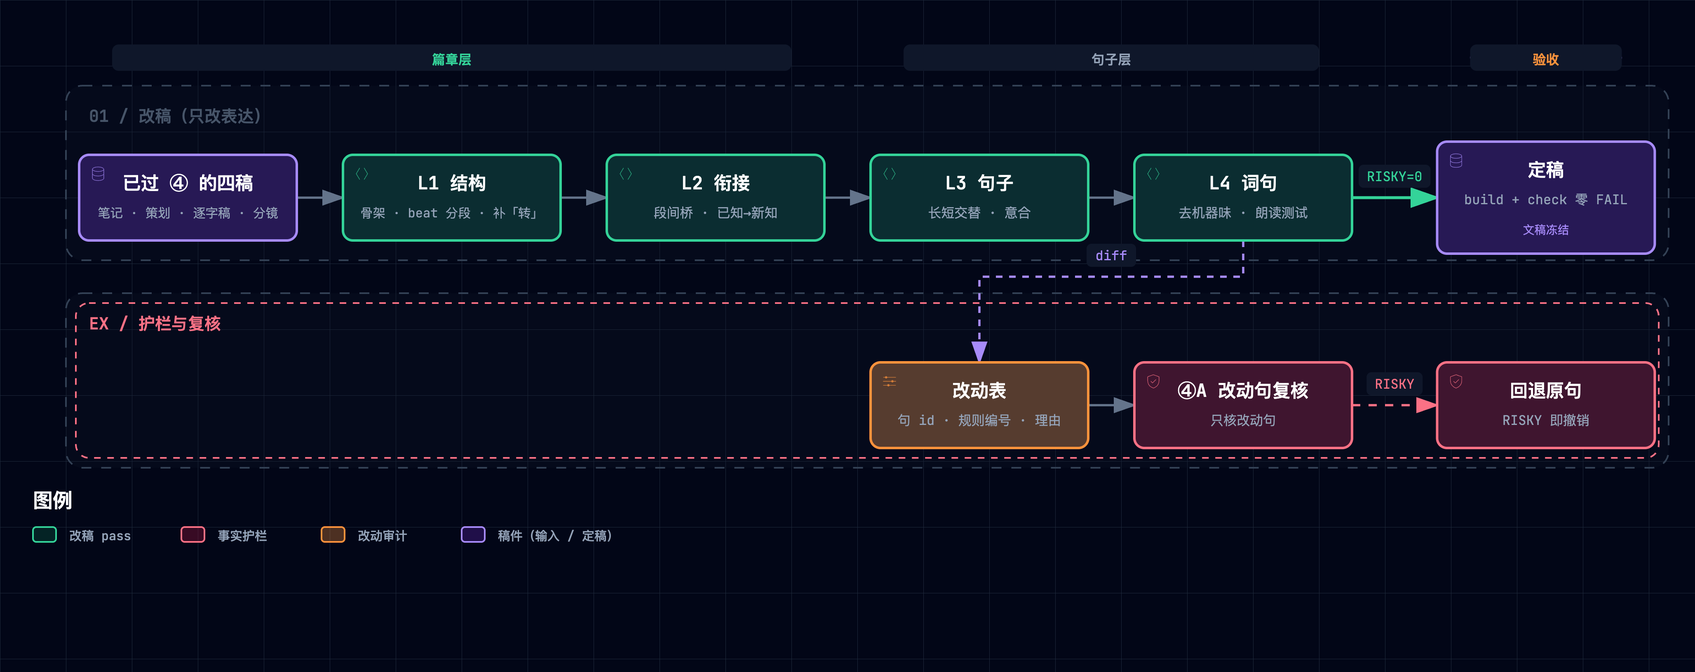
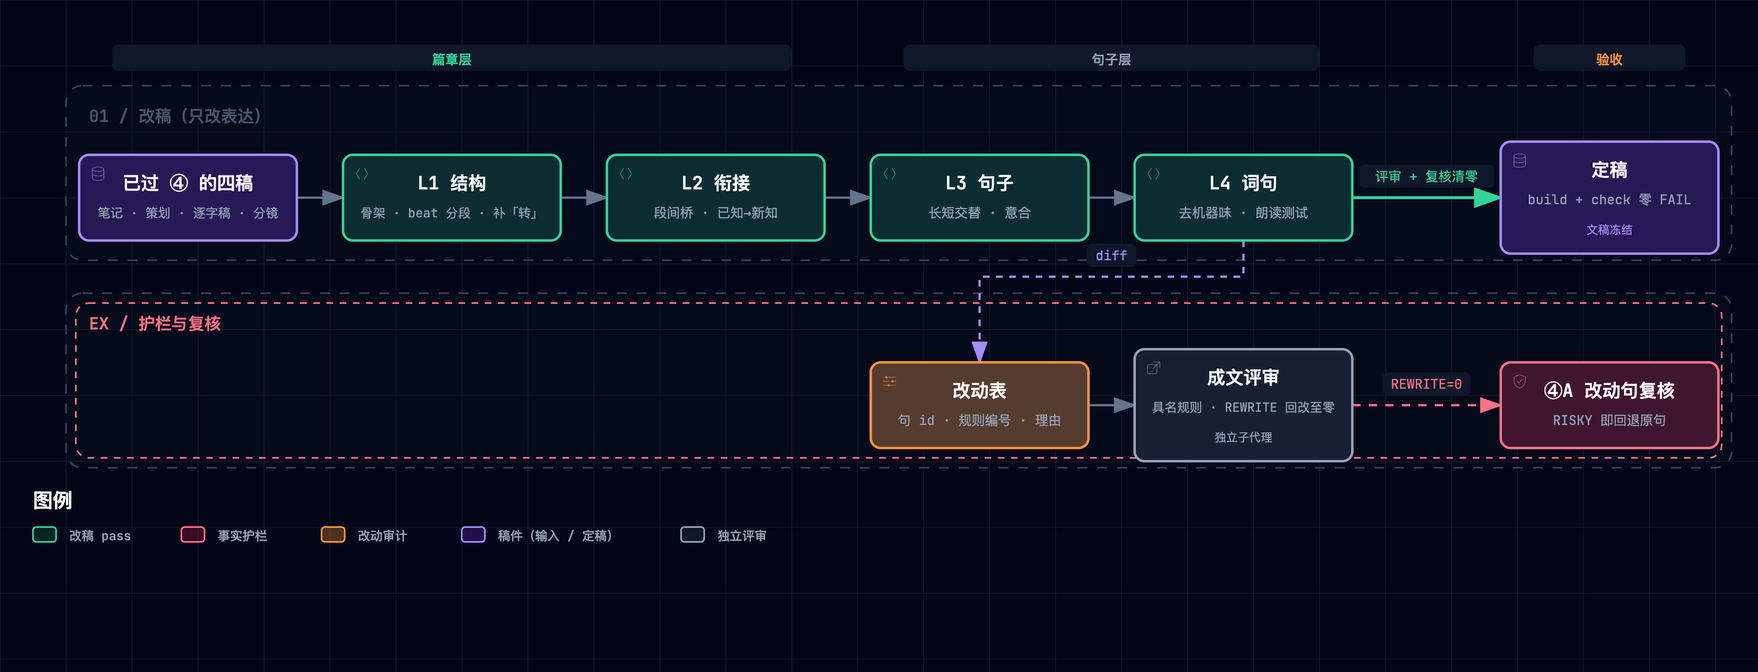
fix(rsi): ⑤ 通过门补「成文评审」定义并与 ④ 同口径（RSI-011 评审回归）;
- 05 规格第九节新增第 3 步「成文评审」：改稿者不自评，由独立子代理（只给规格 + 改后稿件 + 改动表）
  按第三至第八节具名规则判 REWRITE，给不出规则编号的意见不算，回改至 REWRITE=0；原 3–5 步顺移为 4–6
- 改动句复核与 ④ 同口径：RISKY 与未处理 REWRITE 均须为零；RISKY 回退句不再送评审（事实优先）
- 通过门改为「成文评审 REWRITE=0 且改动句复核 RISKY=0、REWRITE=0」，stages.toml / SKILL.md /
  README / CHANGELOG / evals 逐字同步（test_router_gates_match_stages 执法）
- prose-refinement--passes 图补「成文评审」节点（archify showcase 9/9、0 错 0 警，边路由无重叠无尖刺），
  重导 dark/light PNG，mmd 图源与研究文档 alt 文本同步
- 台账 RSI-011 追加评审回归与教训：prompt 门里每个判定量都须能在规格中找到产出步骤与判据

🤖 Generated with [Claude Code](https://claude.com/claude-code), [CodeX](https://openai.com), [Gemini](https://github.com/apps/gemini-code-assist)

diff --git a/docs/assets/architecture/prose-refinement--passes.html b/docs/assets/architecture/prose-refinement--passes.html
@@ -4,7 +4,7 @@
   <meta charset="UTF-8">
   <meta name="viewport" content="width=device-width, initial-scale=1.0">
   <meta name="generator" content="archify 2.17.0-dev.1">
-  <title>Stage ⑤ 成文优化 · 四层 pass 与改动句复核</title>
+  <title>Stage ⑤ 成文优化 · 四层 pass 与评审复核</title>
   <script>
     // Resolve the theme before first paint so light-preference users don't
     // see a dark flash. The toolbar script below re-applies with UI state.
@@ -5081,11 +5081,11 @@ OTHER DEALINGS IN THE FONT SOFTWARE.
            data-preset-badge-blueprint="蓝图 / 修订 01"
            data-preset-badge-editorial="编辑风格 / 现场笔记">
         <div class="pulse-dot"></div>
-        <h1>Stage ⑤ 成文优化 · 四层 pass 与改动句复核</h1>
+        <h1>Stage ⑤ 成文优化 · 四层 pass 与评审复核</h1>
       </div>
     </div>
 
-    <script id="archify-guided-views-data" type="application/json">[{"id":"top-down","label":"自顶向下四层","focus":["in","l1","l2","l3","l4","gate"],"note":"先改结构，再补衔接，然后改句子，最后才改词句；上层问题不许用下层手段掩盖。"},{"id":"guard","label":"护栏与复核","focus":["l4","audit","recheck","rollback","gate"],"note":"改动表定位改动句，只对改动句重跑 ④A；RISKY 即回退原句。"}]</script>
+    <script id="archify-guided-views-data" type="application/json">[{"id":"top-down","label":"自顶向下四层","focus":["in","l1","l2","l3","l4","gate"],"note":"先改结构，再补衔接，然后改句子，最后才改词句；上层问题不许用下层手段掩盖。"},{"id":"guard","label":"评审与复核","focus":["l4","audit","review","recheck","gate"],"note":"改动表交独立子代理按具名规则成文评审，REWRITE 回改至清零；再只对改动句重跑 ④A，RISKY 即回退原句。"}]</script>
 
     <script id="archify-i18n-data" type="application/json">{"locale":"zh-CN","messages":{"viewer.kind.frontend":"前端","viewer.kind.backend":"后端","viewer.kind.database":"数据库","viewer.kind.cloud":"云服务","viewer.kind.security":"安全","viewer.kind.messagebus":"消息总线","viewer.kind.external":"外部系统","viewer.kind.neutral":"中性","viewer.kind.node":"节点","viewer.kind.start":"开始","viewer.kind.active":"活动","viewer.kind.waiting":"等待","viewer.kind.decision":"决策","viewer.kind.success":"成功","viewer.kind.failure":"失败","viewer.toolbar.actions":"图表操作","viewer.theme.toggle.title":"切换主题（T）","viewer.theme.toggle":"切换颜色主题","viewer.theme.dark":"深色","viewer.theme.light":"浅色","viewer.preset.choose.title":"选择视觉风格（S 循环切换）","viewer.preset.choose":"选择视觉风格","viewer.preset.style":"风格","viewer.preset.menu":"视觉风格","viewer.preset.identity":"视觉表达","viewer.preset.cycles":"S 循环切换","viewer.preset.classic":"经典","viewer.preset.classic.short":"经典","viewer.preset.classic.hint":"稳定的技术默认风格","viewer.preset.flow":"信号流","viewer.preset.flow.short":"流动","viewer.preset.flow.hint":"突出动态流向","viewer.preset.blueprint":"蓝图","viewer.preset.blueprint.hint":"工程评审","viewer.preset.editorial":"编辑风格","viewer.preset.editorial.hint":"适合发布与上线说明","viewer.preset.badge.signalFlow":"信号流","viewer.preset.badge.blueprint":"蓝图 / 修订 01","viewer.preset.badge.editorial":"编辑风格 / 现场笔记","viewer.preset.badge.editorialPlate":"ARCHIFY / 图版 04","viewer.preset.current":"当前视觉风格：{style}。选择视觉风格","viewer.motion.live":"动态","viewer.motion.still":"静态","viewer.motion.pause":"暂停动效","viewer.motion.resume":"恢复动效","viewer.motion.reduced":"已根据减少动态效果偏好暂停动效","viewer.motion.hidden":"页面不可见时已暂停动效","viewer.motion.yielding":"暂停动效；当前让位于{owner}","viewer.motion.yielding.title":"动态预览已启用 · 正在让位于{owner}","viewer.owner.story":"引导故事","viewer.owner.chapter":"当前章节","viewer.owner.chapterPreview":"章节差异预览","viewer.owner.handoff":"章节交接","viewer.owner.route":"路径探测","viewer.owner.lens":"语义透镜","viewer.owner.relationship":"关系预览","viewer.owner.intent":"意图追踪","viewer.owner.focus":"语义聚焦","viewer.owner.legend":"图例预览","viewer.owner.reader":"读者交互","viewer.present.enter":"进入演示模式","viewer.present.enter.title":"演示模式（F）","viewer.present.exit":"退出演示模式","viewer.present.exit.title":"退出演示模式（F 或 Escape）","viewer.present.present":"演示","viewer.present.exit.label":"退出","viewer.export.button":"导出","viewer.export.button.title":"导出图表（E）","viewer.export.diagram":"导出图表","viewer.export.menu":"导出","viewer.export.subtitle":"便携、整洁的输出","viewer.export.share":"分享","viewer.export.shareCard":"分享卡片","viewer.export.routeShareCard":"路径分享卡片","viewer.export.reachShareCard":"可达范围分享卡片","viewer.export.copyShareCard":"复制分享卡片","viewer.export.copyDiagram":"复制图表","viewer.export.clipboardPng":"复制 PNG 到剪贴板","viewer.export.raster":"位图","viewer.export.image":"图像","viewer.export.lossless":"无损图像","viewer.export.compact":"紧凑图像","viewer.export.modern":"现代图像格式","viewer.export.vectorMotion":"矢量与动效","viewer.export.vectorMotion.heading":"矢量与动效","viewer.export.editable":"可编辑矢量图","viewer.export.motion6s":"6 秒动效","viewer.export.unsupported":"当前浏览器不支持","viewer.export.clipboardUnsupported":"当前浏览器不支持写入图片剪贴板","viewer.export.clipboardUnsupported.period":"当前浏览器不支持写入图片剪贴板。","viewer.export.clipboardUnsupported.short":"此浏览器不支持写入图片剪贴板。","viewer.export.motionUnavailable":"当前浏览器无法录制动效","viewer.export.webmUnavailable":"当前浏览器不支持 WebM","viewer.export.failed":"导出失败：{message}","viewer.export.unknownVariant":"未知的分享卡片类型：{variant}","viewer.export.routeRequired":"请先追踪路径，再导出路径分享卡片","viewer.export.reachRequired":"请先追踪编写可达范围，再导出可达范围分享卡片","viewer.export.unknown":"未知错误","viewer.export.routeFailed":"路径分享卡片导出失败：{message}","viewer.export.reachFailed":"可达范围分享卡片导出失败：{message}","viewer.export.copyFailed":"复制失败：{message}","viewer.export.copiedPng":"已将 PNG 复制到剪贴板","viewer.export.copiedShare":"已复制分享卡片","viewer.export.downloadedShare":"已下载分享卡片","viewer.export.downloadedRoute":"已下载路径分享卡片","viewer.export.downloadedReach":"已下载可达范围分享卡片","viewer.export.downloadedWebm":"已下载 WebM","viewer.export.recording":"正在录制 6 秒动效…","viewer.export.card.routeSummary.one":"路径：{source} → {target} · {count} 个有向跳转","viewer.export.card.routeSummary.other":"路径：{source} → {target} · {count} 个有向跳转","viewer.export.card.reachSummary":"从{origin}开始的编写{direction} · {nodes} · {links} · 最深 {hops}","viewer.export.card.node.one":"{count} 个节点","viewer.export.card.node.other":"{count} 个节点","viewer.export.card.link.one":"{count} 条连接","viewer.export.card.link.other":"{count} 条连接","viewer.export.card.hop.one":"{count} 跳","viewer.export.card.hop.other":"{count} 跳","viewer.export.card.routeBadge":"ARCHIFY · 路径 · {hops}","viewer.export.card.reachBadge":"ARCHIFY · {direction}可达范围","viewer.export.card.defaultBadge":"ARCHIFY · {preset} · {theme}","viewer.export.direction.upstream":"上游","viewer.export.direction.downstream":"下游","viewer.export.error.canvasUnavailable":"无法为{label}使用画布","viewer.export.error.contextUnavailable":"无法为{label}创建二维画布上下文","viewer.export.error.toBlobUnavailable":"{label}无法使用 canvas.toBlob","viewer.export.error.toBlobNull":"{label}的 canvas.toBlob 未返回数据","viewer.export.error.variantsCombined":"无法同时组合多种分享卡片类型","viewer.export.error.viewerState":"分享卡片导出无法移除临时 Viewer 状态","viewer.export.error.routeState":"路径卡片导出无法安全保留已解析路径","viewer.export.error.reachState":"可达范围卡片导出无法安全保留编写的可达范围","viewer.export.error.webmRequirements":"WebM 动效导出需要追踪动画及浏览器 MediaRecorder 支持","viewer.export.error.mediaRecorder":"MediaRecorder 录制失败","viewer.export.error.emptyWebm":"MediaRecorder 生成了空的 WebM","viewer.export.error.webmBackground":"无法为 WebM 导出加载 SVG 背景","viewer.guided.region":"图表引导视图","viewer.guided.previous":"上一个引导视图","viewer.guided.previous.title":"上一个引导视图（[）","viewer.guided.next":"下一个引导视图","viewer.guided.next.title":"下一个引导视图（]）","viewer.guided.views":"引导视图","viewer.guided.explore":"探索此系统","viewer.guided.intro":"沿精选路径逐步查看，而不改变源图表。","viewer.guided.trail":"故事轨迹","viewer.guided.beat":"节点","viewer.guided.nextBeat":"下一步","viewer.guided.play":"播放引导故事","viewer.guided.play.title":"播放引导故事（P）","viewer.guided.pause":"暂停引导故事","viewer.guided.pause.title":"暂停引导故事（P）","viewer.guided.replay":"重播引导故事","viewer.guided.replay.title":"重播引导故事（P）","viewer.guided.playStory":"播放故事","viewer.guided.pauseStory":"暂停","viewer.guided.replayStory":"重播故事","viewer.guided.motionUnavailable":"静态模式下无法播放故事","viewer.guided.enableMotion":"切换为动态模式以播放引导故事","viewer.guided.selectBeatLink":"选择故事节点以复制其精确链接","viewer.guided.copyMoment":"复制此刻","viewer.guided.momentCopied":"已复制时刻链接","viewer.guided.momentCopyFailed":"无法复制故事时刻链接","viewer.guided.copied":"已复制","viewer.guided.copyFailed":"复制失败","viewer.guided.showAll":"显示全部","viewer.guided.showAll.aria":"显示完整图表","viewer.guided.chapters":"故事章节","viewer.guided.storyTrail":"{label}的故事轨迹：{count} 个节点","viewer.guided.chapter.open":"打开第 {index}/{total} 章：{label}，{count} 个停靠点","viewer.guided.chapter.current":"当前第 {index}/{total} 章：{label}，{count} 个停靠点","viewer.guided.chapter.selectedNodes":"已选择 {count} 个节点","viewer.guided.chapter.stops":"{count} 个停靠点","viewer.guided.chapter.stop.one":"{count} 个停靠点","viewer.guided.chapter.stop.other":"{count} 个停靠点","viewer.guided.chapter.current.title":"{label} — 当前章节，{count} 个停靠点","viewer.guided.chapter.delta.expanded":"{stay} 个保留，{enter} 个进入，{leave} 个离开","viewer.guided.chapter.delta.aria":"打开第 {index}/{total} 章：{label}。章节聚焦差异：{delta}","viewer.guided.chapter.delta.title":"{label} — 章节聚焦 {delta}","viewer.guided.handoff":"{from} → {to} · 经由{label}","viewer.guided.share.chapter":"章节 {index} / {total}","viewer.guided.share.initial":"章节 01 / 01","viewer.guided.share.default":"引导章节","viewer.guided.state.ready":"就绪","viewer.guided.state.playing":"播放中","viewer.guided.state.settled":"已完成","viewer.guided.state.paused":"已暂停","viewer.guided.state.pinned":"已固定","viewer.guided.state.still":"静态","viewer.guided.share.step":"步骤 {index} / {total} · {label}","viewer.guided.share.staticMoment":"{step} · 静态时刻","viewer.guided.share.complete":"{count} 个步骤已完成 · {note}","viewer.guided.share.settled":"路径已稳定，可供阅读。","viewer.guided.share.staticPath":"{count} 个步骤 · 静态路径","viewer.guided.share.ready":"{count} 个步骤 · 就绪","viewer.guided.share.aria":"{state}，第 {index}/{total} 章：{label}。{beat}。{route}","viewer.guided.beat.start":"节点 {index} / {total} · {label} · 起点","viewer.guided.beat.forward":"节点 {index} / {total} · {from} → {to}","viewer.guided.beat.reverse":"节点 {index} / {total} · {from} → {to} · 反向编写连接","viewer.guided.beat.multiple":"节点 {index} / {total} · {from} ⇄ {to} · {count} 条编写连接","viewer.guided.beat.group":"节点 {index} / {total} · {from} · {to} · 分组 · 无直接连接","viewer.guided.beat.aria.prefix":"故事节点 {index}/{total}：{label}。","viewer.guided.beat.aria.start":"起点。","viewer.guided.beat.aria.forward":"从{from}经一条正向编写关系到达。","viewer.guided.beat.aria.reverse":"从{from}出发；编写关系实际由{to}指向{from}。","viewer.guided.beat.aria.multiple":"从{from}经 {count} 条编写关系到达；不使用任意动效。","viewer.guided.beat.aria.group":"与{from}分组展示，没有直接编写关系。","viewer.guided.caption.start":"起点","viewer.guided.caption.grouped":"分组过渡 · 无直接编写连接","viewer.guided.caption.more":" +另外 {count} 条","viewer.guided.caption.reverse":"反向编写关系","viewer.guided.caption.relationships":"{count} 条编写关系","viewer.guided.caption.relationship":"编写关系","viewer.guided.caption.direction":"编写方向：{from} → {to}","viewer.guided.caption.starting":"编写起点","viewer.guided.beatLink":"复制当前故事时刻链接：第 {index}/{total} 个节点：{label}","viewer.guided.noStory":"此图表没有编写引导故事。","viewer.guide.eyebrow":"图表指南","viewer.guide.close":"关闭图表指南","viewer.guide.inspecting":"正在检查已编译语义","viewer.guide.actions":"图表探索操作","viewer.guide.find":"查找任意节点","viewer.guide.find.hint":"搜索标签、职责、类型和稳定 ID。","viewer.guide.route":"追踪路径","viewer.guide.route.aria":"追踪有向路径","viewer.guide.route.hint":"查看两个语义节点如何按编写方向连接。","viewer.guide.map":"查看完整系统","viewer.guide.map.hint":"打开带实时视口和稳定节点的语义雷达。","viewer.guide.lens":"比较语义类型","viewer.guide.lens.hint":"统计角色、显示流量并比较直接编写的连接。","viewer.guide.story":"播放引导故事","viewer.guide.story.hint":"浏览已编写的章节和真实关系。","viewer.guide.present":"进入演示模式","viewer.guide.present.hint":"让实时图表占满视口，同时不改变导出。","viewer.guide.shortcuts":"其他键盘快捷键","viewer.guide.shortcut.export":"导出","viewer.guide.shortcut.theme":"主题","viewer.guide.shortcut.style":"风格","viewer.guide.shortcut.reset":"重置","viewer.guide.shortcut.zoomIn":"放大","viewer.guide.shortcut.zoomOut":"缩小","viewer.guide.shortcut.close":"关闭","viewer.guide.facts":"{nodes} · {relationships} · {views}","viewer.guide.fact.node.one":"{count} 个语义节点","viewer.guide.fact.node.other":"{count} 个语义节点","viewer.guide.fact.relationship.one":"{count} 条关系","viewer.guide.fact.relationship.other":"{count} 条关系","viewer.guide.fact.view.one":"{count} 个引导视图","viewer.guide.fact.view.other":"{count} 个引导视图","viewer.guide.story.available.one":"浏览 {count} 个已编写章节及其真实关系。","viewer.guide.story.available.other":"浏览 {count} 个已编写章节及其真实关系。","viewer.guide.story.unavailable":"此图表没有编写引导故事。","viewer.guide.open":"打开图表指南","viewer.guide.noStory":"此图表没有编写引导故事。","viewer.finder.title":"查找节点","viewer.finder.close":"关闭节点查找器","viewer.finder.placeholder":"搜索标签或 ID","viewer.finder.search":"搜索图表节点","viewer.finder.results":"图表节点","viewer.finder.empty":"没有匹配的节点","viewer.finder.result.focus":"聚焦{label}","viewer.finder.result.routeStart":"选择{label}作为路径起点","viewer.finder.result.routeTarget":"选择{label}作为路径终点，{links}","viewer.finder.status.empty":"没有匹配的节点","viewer.finder.status.count.one":"{count} 个匹配节点","viewer.finder.status.count.other":"{count} 个匹配节点","viewer.finder.noun.nodes":"个节点","viewer.finder.link.one":"{count} 条连接","viewer.finder.link.other":"{count} 条连接","viewer.finder.result.focus.one":"聚焦{label}，{count} 条相关连接","viewer.finder.result.focus.other":"聚焦{label}，{count} 条相关连接","viewer.finder.status.filtered":"{visible}/{available} {noun}","viewer.finder.status.all":"{available} {noun}","viewer.passport.eyebrow":"语义护照","viewer.passport.metadata":"节点元数据","viewer.passport.evidence":"已验证的源代码证据","viewer.passport.verified":"已验证来源","viewer.passport.verificationScope":"已按固定修订版本验证本地 Git 证据，未检查远程访问权限。","viewer.passport.reach":"编写可达范围","viewer.passport.reach.trace":"追踪编写的可达性","viewer.passport.upstream":"上游","viewer.passport.downstream":"下游","viewer.passport.upstream.trace":"追踪上游编写可达性","viewer.passport.downstream.trace":"追踪下游编写可达性","viewer.passport.close":"关闭语义护照","viewer.passport.copy":"复制链接","viewer.passport.copy.focus":"复制聚焦节点的链接","viewer.passport.relations":"关系","viewer.passport.relations.show":"显示关联关系","viewer.passport.relations.hide":"隐藏关联关系","viewer.passport.relations.list":"关联关系","viewer.passport.copyRelation":"复制关系","viewer.passport.copyNode":"复制节点","viewer.passport.copyPinned":"复制固定关系的链接","viewer.passport.copySource":"复制来源节点的链接","viewer.passport.copy.focused.success":"已复制聚焦节点链接","viewer.passport.copy.pinned.success":"已复制固定关系链接","viewer.passport.copy.focused.failed":"无法复制聚焦节点链接","viewer.passport.copy.pinned.failed":"无法复制固定关系链接","viewer.passport.relationship.none":"没有关联关系","viewer.passport.relationship.count.one":"{count} 条关系","viewer.passport.relationship.count.other":"{count} 条关系","viewer.passport.relationship.show.one":"显示 {count} 条关联关系","viewer.passport.relationship.show.other":"显示 {count} 条关联关系","viewer.passport.relationship.summary":"{out} 条出向 · {in} 条入向{loops}","viewer.passport.relationship.loops":" · {count} 条自环","viewer.passport.relationship.explorer":"直接关系浏览器","viewer.passport.relationship.help":"使用方向键浏览关系。按 Enter 或空格键固定详情；按 Escape 清除。","viewer.passport.relationship.loopsBack":"回环","viewer.passport.relationship.connectsTo":"连接到","viewer.passport.relationship.connectsFrom":"连接自","viewer.passport.relationship.pinned":"已固定关系 · {from} → {to} · {label}","viewer.passport.relationship.inspect":"检查第 {index}/{total} 条关系：{from} 到 {to}，{label}。按 Enter 查看详情。","viewer.passport.relationship.group.out":"出向","viewer.passport.relationship.group.in":"入向","viewer.passport.relationship.group.loop":"自环","viewer.passport.relationship.row":"{group}：{relationship}，{neighbor}","viewer.passport.relationship.direction.out":"出 →","viewer.passport.relationship.direction.in":"← 入","viewer.passport.relationship.direction.loop":"自环","viewer.passport.sourceCount.one":"{count} 个已验证来源引用","viewer.passport.sourceCount.other":"{count} 个已验证来源引用","viewer.passport.sourceMarker":"来源","viewer.passport.beacon.one":"{count} 个已验证来源；聚焦此节点以检查","viewer.passport.beacon.other":"{count} 个已验证来源；聚焦此节点以检查","viewer.passport.repository.open":"打开已验证的仓库修订版本 {revision}","viewer.passport.source.open":"打开修订版本 {revision} 中已验证的来源 {path}","viewer.passport.source.openLink":"打开 ↗","viewer.passport.reach.upstream.one":"追踪 {count} 个上游编写节点","viewer.passport.reach.upstream.other":"追踪 {count} 个上游编写节点","viewer.passport.reach.downstream.one":"追踪 {count} 个下游编写节点","viewer.passport.reach.downstream.other":"追踪 {count} 个下游编写节点","viewer.passport.reach.noUpstream":"没有上游编写节点","viewer.passport.reach.noDownstream":"没有下游编写节点","viewer.passport.reach.status":"{direction} · {nodes} 个节点 · {links} 条连接 · 最深 {hops} 跳","viewer.route.eyebrow":"路径探测","viewer.route.start":"选择起点节点","viewer.route.start.find":"查找起点","viewer.route.start.find.aria":"查找路径起点","viewer.route.copy":"复制链接","viewer.route.copy.aria":"复制已追踪路径的链接","viewer.route.clear":"清除","viewer.route.clear.aria":"清除路径探测","viewer.route.traced":"已追踪路径","viewer.route.pickTwo":"在图表中选择两个语义节点","viewer.route.pickOne":"在图表中选择一个语义节点","viewer.route.controls":"路径旅程控制","viewer.route.previous":"上一个路径位置","viewer.route.play":"播放路径旅程","viewer.route.pause":"暂停路径旅程","viewer.route.replay":"重播路径旅程","viewer.route.next":"下一个路径位置","viewer.route.journey":"旅程","viewer.route.pause.label":"暂停","viewer.route.replay.label":"重播","viewer.route.overview":"总览","viewer.route.overview.aria":"显示完整路径总览","viewer.route.instructions":"先选择来源，再选择目标；方向很重要。","viewer.route.destination":"选择从{label}出发的目标","viewer.route.destination.find":"查找目标","viewer.route.destination.find.aria":"查找可达的路径目标","viewer.route.differentDestination":"选择其他目标","viewer.route.distinct":"一条路径需要两个不同的语义节点。","viewer.route.unreachable":"没有通往{label}的有向路径","viewer.route.unreachable.detail":"从{source}无法到达{target}。请选择高亮的目标。","viewer.route.start.instructions":"选择来源。下一步只会显示有向可达的目标。","viewer.route.copy.success":"已复制路径链接","viewer.route.copy.failed":"无法复制路径链接","viewer.route.position":"路径位置 {index}/{total}：{label}","viewer.route.step":"第 {index}/{total} 步 · {phase} · {label}","viewer.route.motionRequired":"自动旅程需要动态模式","viewer.route.trigger.clear":"清除已追踪路径","viewer.route.overview.status":"{nodes} · {hops} · 最短编写路径","viewer.route.overview.node.one":"{count} 个节点","viewer.route.overview.node.other":"{count} 个节点","viewer.route.overview.hop.one":"{count} 个有向跳转","viewer.route.overview.hop.other":"{count} 个有向跳转","viewer.route.phase.playing":"播放中","viewer.route.phase.complete":"已完成","viewer.route.phase.inspecting":"检查中","viewer.route.destination.count.one":"有 {count} 个有向目标可用。请选择高亮节点。","viewer.route.destination.count.other":"有 {count} 个有向目标可用。请选择高亮节点。","viewer.route.noOutgoing":"此处没有可用的出向路径。请清除后选择其他来源。","viewer.route.result.title":"{source} 到 {target}","viewer.route.finder.source.title":"选择路径起点","viewer.route.finder.source.placeholder":"搜索路径来源","viewer.route.finder.source.empty":"没有匹配的路径来源","viewer.route.finder.source.results":"可作为路径起点的节点","viewer.route.finder.source.noun":"个路径来源","viewer.route.finder.source.badge":"起点","viewer.route.finder.target.title":"从{label}出发的目标","viewer.route.finder.target.placeholder":"搜索可达目标","viewer.route.finder.target.empty":"没有匹配的可达目标","viewer.route.finder.target.results":"可达路径目标","viewer.route.finder.target.noun":"个可达目标","viewer.route.hop.one":"{count} 跳","viewer.route.hop.other":"{count} 跳","viewer.lens.eyebrow":"语义透镜","viewer.lens.title":"比较系统角色","viewer.lens.close":"关闭语义透镜","viewer.lens.instruction":"最多选择两种语义类型。选择一种可显示其真实流量；选择两种只比较直接编写的关系。","viewer.lens.kinds":"语义类型","viewer.lens.choose":"选择一种类型以检查其节点和相连关系。","viewer.lens.copy":"复制语义透镜链接","viewer.lens.clear":"清除语义透镜","viewer.lens.open":"打开语义透镜","viewer.lens.openActive":"打开当前语义透镜","viewer.lens.legend":"语义图例","viewer.lens.legend.inspect.one":"检查{label}，{count} 个节点","viewer.lens.legend.inspect.other":"检查{label}，{count} 个节点","viewer.lens.kind.count.one":"{label}，{count} 个节点","viewer.lens.kind.count.other":"{label}，{count} 个节点","viewer.lens.compare.one":"{first} → {second}：{forward} · {second} → {first}：{reverse} · 共 {count} 条直接关系","viewer.lens.compare.other":"{first} → {second}：{forward} · {second} → {first}：{reverse} · 共 {count} 条直接关系","viewer.lens.single":"{nodes} · {relationships} · 已连接节点保持可见","viewer.lens.node.one":"{count} 个{label}节点","viewer.lens.node.other":"{count} 个{label}节点","viewer.lens.relationship.one":"{count} 条相连关系","viewer.lens.relationship.other":"{count} 条相连关系","viewer.radar.title":"语义雷达","viewer.radar.building":"正在构建总览","viewer.radar.openFull":"打开完整语义雷达","viewer.radar.open":"打开雷达","viewer.radar.close":"关闭语义雷达","viewer.radar.surface":"图表总览。点击节点进行聚焦，或使用方向键平移。","viewer.radar.click":"点击节点","viewer.radar.drag":"拖动平移","viewer.radar.space":"语义雷达需要更多地图可见空间。","viewer.radar.nodes":"语义图表雷达节点","viewer.radar.focus":"从语义雷达聚焦{label}","viewer.radar.status":"{count} 个节点 · {viewport}","viewer.radar.fullMap":"{count} 个节点 · 完整地图","viewer.radar.compacted":"已收紧雷达，避免遮挡语义护照或地图控件。","viewer.radar.cancelWaiting":"取消等待更多地图空间的语义雷达","viewer.radar.needsSpace":"语义雷达需要更多可见地图空间","viewer.radar.viewport.full":"完整地图","viewer.radar.viewport.width":"宽度 {percent}%","viewer.radar.viewport.scale":"视口 {percent}%","viewer.nav.controls":"图表视图控制","viewer.nav.route":"追踪有向路径","viewer.nav.route.title":"追踪路径（R）","viewer.nav.route.short":"路径","viewer.nav.radar":"打开语义雷达","viewer.nav.radar.title":"语义雷达（M）","viewer.nav.radar.short":"地图","viewer.nav.lens":"打开语义透镜","viewer.nav.lens.title":"语义透镜（L）","viewer.nav.lens.short":"透镜","viewer.nav.find":"查找节点","viewer.nav.find.title":"查找节点（/）","viewer.nav.guide":"打开图表指南","viewer.nav.guide.title":"图表指南（?）","viewer.nav.zoomOut":"缩小","viewer.nav.zoomOut.title":"缩小（-）","viewer.nav.reset":"重置图表视图","viewer.nav.reset.title":"重置视图（0）","viewer.nav.read":"阅读","viewer.nav.zoomIn":"放大","viewer.nav.zoomIn.title":"放大（+）","viewer.nav.camera":"{hint}。重置图表视图","viewer.nav.camera.title":"{semantic}{hint} · 重置视图（0）","viewer.nav.camera.semantic":"语义相机已启用 · ","viewer.nav.level.map":"概览","viewer.nav.level.read":"阅读","viewer.nav.level.full":"完整","viewer.nav.level.auto":"自动","viewer.nav.detail.map":"放大以显示关系标签和节点上下文","viewer.nav.detail.read":"再次放大以显示标签和注释","viewer.nav.detail.full":"完整图表详情","viewer.intent.summary":"{label}。{out} 条出向，{in} 条入向{loops}。共 {total} 条连接。按 Enter 查看详情。","viewer.intent.loops":"，{count} 条自环","viewer.common.copied":"已复制","viewer.common.copyFailed":"复制失败","viewer.common.copyLink":"复制链接","viewer.common.clear":"清除","viewer.common.close":"关闭"}}</script>
     <div class="guided-views no-print" id="guided-views" hidden aria-label="图表引导视图">
@@ -5130,8 +5130,8 @@ OTHER DEALINGS IN THE FONT SOFTWARE.
     <!-- Main Diagram -->
     <div class="diagram-container" data-detail-level="read"
          data-preset-badge-editorial-plate="ARCHIFY / 图版 04">
-      <svg viewBox="0 0 1028 408" role="img" lang="zh-CN" aria-labelledby="archify-diagram-title archify-diagram-description" data-preset="classic" data-quality-profile="showcase">
-        <title id="archify-diagram-title">Stage ⑤ 成文优化 · 四层 pass 与改动句复核</title>
+      <svg viewBox="0 0 1066 408" role="img" lang="zh-CN" aria-labelledby="archify-diagram-title archify-diagram-description" data-preset="classic" data-quality-profile="showcase">
+        <title id="archify-diagram-title">Stage ⑤ 成文优化 · 四层 pass 与评审复核</title>
         <desc id="archify-diagram-description">由 Archify 生成的工作流图。</desc>
         <!-- Definitions -->
         <defs>
@@ -5156,11 +5156,11 @@ OTHER DEALINGS IN THE FONT SOFTWARE.
         <rect width="100%" height="100%" fill="url(#grid)" />
 
         <!-- Swimlanes -->
-        <rect data-graph-role="structural-frame" data-composition-frame-kind="lane" data-composition-frame-id="lane-0" x="40" y="52" width="972" height="106" rx="10" class="c-lane" stroke-width="1"/>
+        <rect data-graph-role="structural-frame" data-composition-frame-kind="lane" data-composition-frame-id="lane-0" x="40" y="52" width="1010" height="106" rx="10" class="c-lane" stroke-width="1"/>
         <text x="54" y="74" class="t-dim" font-size="10" font-weight="600">01 / 改稿（只改表达）</text>
 
-        <rect data-graph-role="structural-frame" data-composition-frame-kind="lane" data-composition-frame-id="lane-1" x="40" y="178" width="972" height="106" rx="10" class="c-lane" stroke-width="1"/>
-        <rect data-graph-role="structural-frame" data-composition-frame-kind="exception-lane" data-composition-frame-id="lane-1-exception" x="46" y="184" width="960" height="94" rx="8" class="c-security-group" stroke-width="1"/>
+        <rect data-graph-role="structural-frame" data-composition-frame-kind="lane" data-composition-frame-id="lane-1" x="40" y="178" width="1010" height="106" rx="10" class="c-lane" stroke-width="1"/>
+        <rect data-graph-role="structural-frame" data-composition-frame-kind="exception-lane" data-composition-frame-id="lane-1-exception" x="46" y="184" width="998" height="94" rx="8" class="c-security-group" stroke-width="1"/>
         <text x="54" y="200" class="t-security" font-size="10" font-weight="600">EX / 护栏与复核</text>
 
         <!-- Phase headers -->
@@ -5170,22 +5170,22 @@ OTHER DEALINGS IN THE FONT SOFTWARE.
         <line x1="548" y1="35" x2="800" y2="35" class="a-default" stroke-width="1.1"/>
         <rect x="548" y="27" width="252" height="16" rx="4" class="c-mask"/>
         <text x="674" y="39" class="t-muted" font-size="8" font-weight="600" text-anchor="middle">句子层</text>
-        <line x1="891.6" y1="35" x2="983.6" y2="35" class="a-dashed" stroke-width="1.1"/>
-        <rect x="891.6" y="27" width="92" height="16" rx="4" class="c-mask"/>
-        <text x="937.6" y="39" class="t-messagebus" font-size="8" font-weight="600" text-anchor="middle">验收</text>
+        <line x1="930" y1="35" x2="1022" y2="35" class="a-dashed" stroke-width="1.1"/>
+        <rect x="930" y="27" width="92" height="16" rx="4" class="c-mask"/>
+        <text x="976" y="39" class="t-messagebus" font-size="8" font-weight="600" text-anchor="middle">验收</text>
 
         <!-- Workflow groups -->
 
 
         <!-- Edge paths -->
-        <path data-edge-from="audit" data-edge-to="recheck" data-edge-key="0" data-edge-id="audit-recheck" data-composition-points="660,246;688,246" d="M 660 246 L 688 246" class="a-default" stroke-width="1.4" marker-end="url(#arrowhead)"/>
+        <path data-edge-from="audit" data-edge-to="review" data-edge-key="0" data-edge-id="audit-review" data-composition-points="660,246;688,246" d="M 660 246 L 688 246" class="a-default" stroke-width="1.4" marker-end="url(#arrowhead)"/>
         <path data-edge-from="in" data-edge-to="l1" data-edge-key="1" data-edge-id="in-l1" data-composition-points="180,120;208,120" d="M 180 120 L 208 120" class="a-default" stroke-width="1.4" marker-end="url(#arrowhead)"/>
         <path data-edge-from="l1" data-edge-to="l2" data-edge-key="2" data-edge-id="l1-l2" data-composition-points="340,120;368,120" d="M 340 120 L 368 120" class="a-default" stroke-width="1.4" marker-end="url(#arrowhead)"/>
         <path data-edge-from="l2" data-edge-to="l3" data-edge-key="3" data-edge-id="l2-l3" data-composition-points="500,120;528,120" d="M 500 120 L 528 120" class="a-default" stroke-width="1.4" marker-end="url(#arrowhead)"/>
         <path data-edge-from="l3" data-edge-to="l4" data-edge-key="4" data-edge-id="l3-l4" data-composition-points="660,120;688,120" d="M 660 120 L 688 120" class="a-default" stroke-width="1.4" marker-end="url(#arrowhead)"/>
         <path data-edge-from="l4" data-edge-to="audit" data-edge-label="diff" data-edge-key="5" data-edge-id="l4-audit" data-composition-points="754,146;754,168;594,168;594,220" d="M 754 146 L 754 168 L 594 168 L 594 220" class="a-dashed" stroke-width="1.4" marker-end="url(#arrowhead-dashed)"/>
-        <path data-edge-from="l4" data-edge-to="gate" data-edge-label="RISKY=0" data-edge-key="6" data-edge-id="l4-gate" data-composition-points="820,120;871.6,120" d="M 820 120 L 871.6 120" class="a-emphasis" stroke-width="1.8" marker-end="url(#arrowhead-emphasis)"/>
-        <path data-edge-from="recheck" data-edge-to="rollback" data-edge-label="RISKY" data-edge-key="7" data-edge-id="recheck-rollback" data-composition-points="820,246;871.6,246" d="M 820 246 L 871.6 246" class="a-security" stroke-width="1.4" marker-end="url(#arrowhead-security)"/>
+        <path data-edge-from="l4" data-edge-to="gate" data-edge-label="评审 + 复核清零" data-edge-key="6" data-edge-id="l4-gate" data-composition-points="820,120;910,120" d="M 820 120 L 910 120" class="a-emphasis" stroke-width="1.8" marker-end="url(#arrowhead-emphasis)"/>
+        <path data-edge-from="review" data-edge-to="recheck" data-edge-label="REWRITE=0" data-edge-key="7" data-edge-id="review-recheck" data-composition-points="820,246;910,246" d="M 820 246 L 910 246" class="a-security" stroke-width="1.4" marker-end="url(#arrowhead-security)"/>
 
         <!-- Nodes -->
         <g id="node-in" data-node-id="in" data-node-label="已过 ④ 的四稿" tabindex="0" role="button" aria-label="聚焦已过 ④ 的四稿，笔记 · 策划 · 逐字稿 · 分镜, 改稿（只改表达） › 篇章层" aria-pressed="false" data-node-kind="database" data-node-sublabel="笔记 · 策划 · 逐字稿 · 分镜" data-node-context="改稿（只改表达） › 篇章层">
@@ -5246,15 +5246,15 @@ OTHER DEALINGS IN THE FONT SOFTWARE.
 
         <g id="node-gate" data-node-id="gate" data-node-label="定稿" tabindex="0" role="button" aria-label="聚焦定稿，build + check 零 FAIL, 改稿（只改表达） › 验收" aria-pressed="false" data-node-kind="database" data-node-sublabel="build + check 零 FAIL" data-node-tag="文稿冻结" data-node-context="改稿（只改表达） › 验收">
           <title>定稿 · build + check 零 FAIL · 改稿（只改表达） › 验收 · 文稿冻结</title>
-          <rect x="871.6" y="86" width="132" height="68" rx="6" class="c-mask"/>
-          <rect x="871.6" y="86" width="132" height="68" rx="6" class="c-database" stroke-width="1.5"/>
-          <g aria-hidden="true" data-semantic-sigil="database" class="semantic-sigil s-database" transform="translate(877.6 92) scale(0.6875)">
+          <rect x="910" y="86" width="132" height="68" rx="6" class="c-mask"/>
+          <rect x="910" y="86" width="132" height="68" rx="6" class="c-database" stroke-width="1.5"/>
+          <g aria-hidden="true" data-semantic-sigil="database" class="semantic-sigil s-database" transform="translate(916 92) scale(0.6875)">
             <ellipse cx="8" cy="4" rx="5" ry="2"/>
             <path d="M3 4v8c0 1.1 2.2 2 5 2s5-.9 5-2V4M3 8c0 1.1 2.2 2 5 2s5-.9 5-2"/>
           </g>
-          <text data-node-label="" data-detail-anchor="" x="937.6" y="107" class="t-primary" font-size="11" font-weight="600" text-anchor="middle">定稿</text>
-          <text data-detail="context" x="937.6" y="124" class="t-muted" font-size="8" text-anchor="middle">build + check 零 FAIL</text>
-        <text data-detail="fine" x="937.6" y="142" class="t-database" font-size="7" text-anchor="middle">文稿冻结</text>
+          <text data-node-label="" data-detail-anchor="" x="976" y="107" class="t-primary" font-size="11" font-weight="600" text-anchor="middle">定稿</text>
+          <text data-detail="context" x="976" y="124" class="t-muted" font-size="8" text-anchor="middle">build + check 零 FAIL</text>
+        <text data-detail="fine" x="976" y="142" class="t-database" font-size="7" text-anchor="middle">文稿冻结</text>
         </g>
 
         <g id="node-audit" data-node-id="audit" data-node-label="改动表" tabindex="0" role="button" aria-label="聚焦改动表，句 id · 规则编号 · 理由, 护栏与复核 › 句子层" aria-pressed="false" data-node-kind="messagebus" data-node-sublabel="句 id · 规则编号 · 理由" data-node-context="护栏与复核 › 句子层">
@@ -5271,28 +5271,29 @@ OTHER DEALINGS IN THE FONT SOFTWARE.
           <text data-detail="context" x="594" y="258" class="t-muted" font-size="8" text-anchor="middle">句 id · 规则编号 · 理由</text>
         </g>
 
-        <g id="node-recheck" data-node-id="recheck" data-node-label="④A 改动句复核" tabindex="0" role="button" aria-label="聚焦④A 改动句复核，只核改动句, 护栏与复核 › 句子层" aria-pressed="false" data-node-kind="security" data-node-sublabel="只核改动句" data-node-context="护栏与复核 › 句子层">
-          <title>④A 改动句复核 · 只核改动句 · 护栏与复核 › 句子层</title>
-          <rect x="688" y="220" width="132" height="52" rx="6" class="c-mask"/>
-          <rect x="688" y="220" width="132" height="52" rx="6" class="c-security" stroke-width="1.5"/>
-          <g aria-hidden="true" data-semantic-sigil="security" class="semantic-sigil s-security" transform="translate(694 226) scale(0.6875)">
-            <path d="M8 2.2 13 4v3.5c0 3.1-1.8 5.4-5 6.5-3.2-1.1-5-3.4-5-6.5V4Z"/>
-            <path d="m5.8 8 1.5 1.5 3-3"/>
+        <g id="node-review" data-node-id="review" data-node-label="成文评审" tabindex="0" role="button" aria-label="聚焦成文评审，具名规则 · REWRITE 回改至零, 护栏与复核 › 句子层" aria-pressed="false" data-node-kind="external" data-node-sublabel="具名规则 · REWRITE 回改至零" data-node-tag="独立子代理" data-node-context="护栏与复核 › 句子层">
+          <title>成文评审 · 具名规则 · REWRITE 回改至零 · 护栏与复核 › 句子层 · 独立子代理</title>
+          <rect x="688" y="212" width="132" height="68" rx="6" class="c-mask"/>
+          <rect x="688" y="212" width="132" height="68" rx="6" class="c-external" stroke-width="1.5"/>
+          <g aria-hidden="true" data-semantic-sigil="external" class="semantic-sigil s-external" transform="translate(694 218) scale(0.6875)">
+            <rect x="2.5" y="5" width="8.5" height="8" rx="1.5"/>
+            <path d="M8 2.5h5.5V8M13.5 2.5 7.5 8.5"/>
           </g>
-          <text data-node-label="" data-detail-anchor="" x="754" y="241" class="t-primary" font-size="11" font-weight="600" text-anchor="middle">④A 改动句复核</text>
-          <text data-detail="context" x="754" y="258" class="t-muted" font-size="8" text-anchor="middle">只核改动句</text>
+          <text data-node-label="" data-detail-anchor="" x="754" y="233" class="t-primary" font-size="11" font-weight="600" text-anchor="middle">成文评审</text>
+          <text data-detail="context" x="754" y="250" class="t-muted" font-size="7.6" text-anchor="middle">具名规则 · REWRITE 回改至零</text>
+        <text data-detail="fine" x="754" y="268" class="t-external" font-size="7" text-anchor="middle">独立子代理</text>
         </g>
 
-        <g id="node-rollback" data-node-id="rollback" data-node-label="回退原句" tabindex="0" role="button" aria-label="聚焦回退原句，RISKY 即撤销, 护栏与复核 › 验收" aria-pressed="false" data-node-kind="security" data-node-sublabel="RISKY 即撤销" data-node-context="护栏与复核 › 验收">
-          <title>回退原句 · RISKY 即撤销 · 护栏与复核 › 验收</title>
-          <rect x="871.6" y="220" width="132" height="52" rx="6" class="c-mask"/>
-          <rect x="871.6" y="220" width="132" height="52" rx="6" class="c-security" stroke-width="1.5"/>
-          <g aria-hidden="true" data-semantic-sigil="security" class="semantic-sigil s-security" transform="translate(877.6 226) scale(0.6875)">
+        <g id="node-recheck" data-node-id="recheck" data-node-label="④A 改动句复核" tabindex="0" role="button" aria-label="聚焦④A 改动句复核，RISKY 即回退原句, 护栏与复核 › 验收" aria-pressed="false" data-node-kind="security" data-node-sublabel="RISKY 即回退原句" data-node-context="护栏与复核 › 验收">
+          <title>④A 改动句复核 · RISKY 即回退原句 · 护栏与复核 › 验收</title>
+          <rect x="910" y="220" width="132" height="52" rx="6" class="c-mask"/>
+          <rect x="910" y="220" width="132" height="52" rx="6" class="c-security" stroke-width="1.5"/>
+          <g aria-hidden="true" data-semantic-sigil="security" class="semantic-sigil s-security" transform="translate(916 226) scale(0.6875)">
             <path d="M8 2.2 13 4v3.5c0 3.1-1.8 5.4-5 6.5-3.2-1.1-5-3.4-5-6.5V4Z"/>
             <path d="m5.8 8 1.5 1.5 3-3"/>
           </g>
-          <text data-node-label="" data-detail-anchor="" x="937.6" y="241" class="t-primary" font-size="11" font-weight="600" text-anchor="middle">回退原句</text>
-          <text data-detail="context" x="937.6" y="258" class="t-muted" font-size="8" text-anchor="middle">RISKY 即撤销</text>
+          <text data-node-label="" data-detail-anchor="" x="976" y="241" class="t-primary" font-size="11" font-weight="600" text-anchor="middle">④A 改动句复核</text>
+          <text data-detail="context" x="976" y="258" class="t-muted" font-size="8" text-anchor="middle">RISKY 即回退原句</text>
         </g>
 
         <!-- Edge labels -->
@@ -5305,13 +5306,13 @@ OTHER DEALINGS IN THE FONT SOFTWARE.
           <rect x="659" y="148" width="30" height="14" rx="3" class="c-mask"/>
           <text x="674" y="158" class="t-database" font-size="8" text-anchor="middle">diff</text>
         </g>
-        <g data-detail="context" data-edge-from="l4" data-edge-to="gate" data-edge-label="RISKY=0" data-edge-key="6" data-edge-id="l4-gate">
-          <rect x="824" y="100" width="43.6" height="14" rx="3" class="c-mask"/>
-          <text x="845.8" y="110" class="t-backend" font-size="8" text-anchor="middle">RISKY=0</text>
+        <g data-detail="context" data-edge-from="l4" data-edge-to="gate" data-edge-label="评审 + 复核清零" data-edge-key="6" data-edge-id="l4-gate">
+          <rect x="824" y="100" width="82" height="14" rx="3" class="c-mask"/>
+          <text x="865" y="110" class="t-backend" font-size="8" text-anchor="middle">评审 + 复核清零</text>
         </g>
-        <g data-detail="context" data-edge-from="recheck" data-edge-to="rollback" data-edge-label="RISKY" data-edge-key="7" data-edge-id="recheck-rollback">
-          <rect x="828.8" y="226" width="34" height="14" rx="3" class="c-mask"/>
-          <text x="845.8" y="236" class="t-security" font-size="8" text-anchor="middle">RISKY</text>
+        <g data-detail="context" data-edge-from="review" data-edge-to="recheck" data-edge-label="REWRITE=0" data-edge-key="7" data-edge-id="review-recheck">
+          <rect x="838.4" y="226" width="53.199999999999996" height="14" rx="3" class="c-mask"/>
+          <text x="865" y="236" class="t-security" font-size="8" text-anchor="middle">REWRITE=0</text>
         </g>
 
         <!-- Legend -->
@@ -5332,6 +5333,10 @@ OTHER DEALINGS IN THE FONT SOFTWARE.
           <g data-legend-semantic-kind="database" data-legend-kind="database" data-legend-label="稿件（输入 / 定稿）" data-legend-x="280" data-legend-baseline="328" data-legend-width="126">
             <rect x="280" y="320" width="14" height="9" rx="2" class="c-database" stroke-width="1"/>
             <text x="302" y="328" class="t-muted" font-size="7.5" font-weight="500">稿件（输入 / 定稿）</text>
+          </g>
+          <g data-legend-semantic-kind="external" data-legend-kind="external" data-legend-label="独立评审" data-legend-x="413" data-legend-baseline="328" data-legend-width="78">
+            <rect x="413" y="320" width="14" height="9" rx="2" class="c-external" stroke-width="1"/>
+            <text x="435" y="328" class="t-muted" font-size="7.5" font-weight="500">独立评审</text>
           </g>
         </g>
       </svg>

diff --git a/docs/.agents/issue.md b/docs/.agents/issue.md
@@ -195,6 +195,6 @@
 
 **处理方式**：新增 `references/05-prose-refinement.md`（四层 pass + 四稿专属规则 + 中文去机器味检查表 + 改动审计与复核），原 05–09 `git mv` 顺移为 06–10；stages.toml 插入 `prose-refinement`（authored、无子命令）；SKILL.md / README / PIPELINE.md / knowledge-map / evals / 脚本文案 / 模板与 frozen 注释中的阶段序号与文件名全量同步；RSI.md 不变量 1、8、11 与对应测试去数字化；新增文档完整性门 `test_spec_references_resolve`；两张架构图重生成。[PR #18](https://github.com/ThreeFish-AI/to-video/pull/18)，commit `c3834c4`。
 
-**后续防范**：① 执法测试与不变量**不写死阶段数量或具体序号**，一律从 stages.toml 推导（本次三条测试与三条不变量都曾写死「9」）；② 规格文件名出现在注释与散文里时，改名必须过 `test_spec_references_resolve`，不能只靠 Markdown 链接门；③ 裸写的 `references/07` 这类简写不在门内，改名时须用 `git grep` 搜出所有「references/ + 两位数字」且后面不跟连字符的写法，人工逐条核对；④ 内容层新规则上线前，先在真实语料上量化病灶，避免给已经干净的层级加门。
+**后续防范**：① 执法测试与不变量**不写死阶段数量或具体序号**，一律从 stages.toml 推导（本次三条测试与三条不变量都曾写死「9」）；② 规格文件名出现在注释与散文里时，改名必须过 `test_spec_references_resolve`，不能只靠 Markdown 链接门；③ 裸写的 `references/07` 这类简写不在门内，改名时须用 `git grep` 搜出所有「references/ + 两位数字」且后面不跟连字符的写法，人工逐条核对；④ 内容层新规则上线前，先在真实语料上量化病灶，避免给已经干净的层级加门。评审回归（2026-09-26）：① 通过门里的「成文评审 REWRITE=0」在规格中找不到产出它的步骤：第九节只定义了改动句回 ④A 复核，第十节只是勾选表，执行 ⑤ 的代理无法判门。已在第九节补第 3 步「成文评审」：独立子代理只拿规格、改后稿件和改动表，按第三至第八节的具名规则判 REWRITE；给不出规则编号的意见不算。② 改动句复核判 REWRITE 时只写了「按 ④ 修正」，门里却只查 RISKY=0。门改为「成文评审 REWRITE=0 且改动句复核 RISKY=0、REWRITE=0」，与 ④ 同口径，stages.toml / SKILL.md / README / CHANGELOG / evals 与 `prose-refinement--passes` 图同步更新。教训：authored 阶段的 prompt 门没有测试兜底，门里每个判定量都要能在规格里找到「谁产出、按什么判」；引用上游门的判定时，连同上游的放行口径一起引用。
 
 **同类问题影响**：negentropy 已发布集的 frozen 骨架注释指针会落后于模板（md5 变化、`verify_skeleton --strict` 报 STALE），仅注释差异、行为零改动，按 CHANGELOG「Breaking」第 2 条自适配；PR #17（旧布局，编号与本仓 RSI-008/009 撞车）rebase 时，其 TTS 规格改动对应新文件 `references/07-tts-voice.md`，编号建议改为 RSI-012/013。

diff --git a/CHANGELOG.md b/CHANGELOG.md
@@ -12,7 +12,7 @@ All notable changes to this project will be documented in this file.
 
 ### Added
 
-- **Stage ⑤ 成文优化**规格 [references/05-prose-refinement.md](references/05-prose-refinement.md)：把 AI 稿件改成像人写、适合人读也适合人听的样子。四层 pass 按编辑行业层级自顶向下执行（L1 结构 → L2 衔接 → L3 句子 → L4 词句），每层写明改什么、不改什么；硬护栏冻结事实、数字、限定词、归属句和句 id；四类稿件各有专属规则（逐字稿：幕内空行分 beat、不把一句话切成两行、悬置只留给真悬念、misconception 先行、开环回扣；策划案：结论先行、小标题写成判断句；研究笔记：主旨段结论先行、取证锚点不动；分镜：只写看得见的、旁白讲画面给不了的）；中文去机器味检查表 Z1–Z13；改动表逐条附规则编号，改动句回 ④A 复核。通过门：「成文评审 REWRITE=0 且改动句复核 RISKY=0」。authored 阶段、**刻意不加内容类机器门**（用户决策：语料里书面腔禁词零命中，结构层问题无法用正则可靠判断）。
+- **Stage ⑤ 成文优化**规格 [references/05-prose-refinement.md](references/05-prose-refinement.md)：把 AI 稿件改成像人写、适合人读也适合人听的样子。四层 pass 按编辑行业层级自顶向下执行（L1 结构 → L2 衔接 → L3 句子 → L4 词句），每层写明改什么、不改什么；硬护栏冻结事实、数字、限定词、归属句和句 id；四类稿件各有专属规则（逐字稿：幕内空行分 beat、不把一句话切成两行、悬置只留给真悬念、misconception 先行、开环回扣；策划案：结论先行、小标题写成判断句；研究笔记：主旨段结论先行、取证锚点不动；分镜：只写看得见的、旁白讲画面给不了的）；中文去机器味检查表 Z1–Z13；改动表逐条附规则编号，改完由独立子代理按具名规则做成文评审（判 REWRITE 须给规则编号），改动句再回 ④A 复核（与 ④ 同口径）。通过门：「成文评审 REWRITE=0 且改动句复核 RISKY=0、REWRITE=0」。authored 阶段、**刻意不加内容类机器门**（用户决策：语料里书面腔禁词零命中，结构层问题无法用正则可靠判断）。
 - 幕内空行分段成为正式写法（03 格式契约）：`build` 本就跳过空行，零机制成本。
 - 设计依据 [docs/research/prose-refinement.md](docs/research/prose-refinement.md)（14 集 2303 句语料取证、IEEE 引用、落位 / 插入位置 / 执法力度三组比选）与新图 `prose-refinement--passes`（archify HTML + dark/light PNG + mermaid 源）。
 - 文档完整性门 `test_spec_references_resolve`（附检测器自检）：用户可见文案（脚本、规格、手册、模板含注释、README、research、mermaid 源）里点名的 `references/NN-*.md` 必须存在——现有链接门查不到注释与散文里的路径，重编号时漏改一处就是一条死指引。

diff --git a/references/05-prose-refinement.md b/references/05-prose-refinement.md
@@ -141,18 +141,19 @@
 
 1. **改前留底**：工作区在 git 下即以 `git diff` 定位改动；否则改前把四稿复制到 `$P/.temp/prose-before/`，事后清理。
 2. **改动表**：每处改动一行——`句 id 或位置 | 规则编号（如 L2-1、四-9、Z5）| 一句理由`。规则编号引用本规格的节号与条号。
-3. **改动句复核**：只对改动过的句子重跑 [④A 真实性校验](./04-verification.md) 的四级判定。任何一句判 RISKY 即回退原句；REWRITE 则按 ④ 修正。未改动的句子不重复核查。
-4. **重跑机器门**：`uv run --no-project $T/scripts/pipeline.py --project $P build`，然后 `check`（双语集会同时点名 en 失配句，按第二节第 6 条处理）。
-5. **版本标注**：逐字稿头部改为 `（vN，已过双重校验与成文优化）`，版本号加一。
+3. **成文评审**：改稿者不自评。另起独立子代理（fresh context，只给本规格 + 改后稿件 + 改动表），对照第三至第八节的具名规则与第十节前三项通读全稿；每个问题一行 `位置 | 规则编号 | 理由`，判 REWRITE。给不出规则编号的意见不构成 REWRITE（同第二节第 7 条）。改稿者逐条修正并追加进改动表，再送评审，直到 REWRITE=0。
+4. **改动句复核**：以改前留底为基准，只对最终改动过的句子（含评审后的修正）重跑 [④A 真实性校验](./04-verification.md) 的四级判定，门槛与 ④ 同口径：RISKY 与未处理 REWRITE 均须为零。判 RISKY 即回退原句，回退句不再送评审（事实优先）；判 REWRITE 则按 ④ 修正后复核该句。未改动的句子不重复核查。
+5. **重跑机器门**：`uv run --no-project $T/scripts/pipeline.py --project $P build`，然后 `check`（双语集会同时点名 en 失配句，按第二节第 6 条处理）。
+6. **版本标注**：逐字稿头部改为 `（vN，已过双重校验与成文优化）`，版本号加一。
 
 ## 十、验收
 
 - [ ] 连读每幕 / 每节的一句话概括，论证链完整；开头的问题都有兑现或明确留作开放问题；
 - [ ] 逐字稿每幕都已用空行分 beat；没有逗号、顿号收尾的半句；冒号、破折号悬置只剩真悬念；
 - [ ] 逐句朗读通过，没有念不顺的句子；
-- [ ] 改动表每行都有规则编号；改动句复核 RISKY=0；
+- [ ] 改动表每行都有规则编号；成文评审 REWRITE=0；改动句复核 RISKY=0、REWRITE=0；
 - [ ] `build` + `check` 零 FAIL；句 id 集合与顺序与优化前完全一致；
-- [ ] **通过门：成文评审 REWRITE=0 且改动句复核 RISKY=0**。
+- [ ] **通过门：成文评审 REWRITE=0 且改动句复核 RISKY=0、REWRITE=0**。
 
 ## 参考文献
 

diff --git a/docs/research/prose-refinement.md b/docs/research/prose-refinement.md
@@ -1,12 +1,12 @@
 # 成文优化：病灶取证、理论依据与方案比选
 
-> **结论先行**：AI 稿件「断断续续、不像人写」的病灶在**篇章结构层**，不在词汇层。流水线在 ④ 双重校验之后新增正式阶段 **⑤ 成文优化**，按编辑行业的四层分工（结构 → 衔接 → 句子 → 词句）自顶向下改稿，只改表达、不改事实；改过的句子回 ④A 复核兜底。规则正文在 [references/05-prose-refinement.md](../../references/05-prose-refinement.md)，本文只存设计依据（台账：[RSI-011](../.agents/issue.md)）。
+> **结论先行**：AI 稿件「断断续续、不像人写」的病灶在**篇章结构层**，不在词汇层。流水线在 ④ 双重校验之后新增正式阶段 **⑤ 成文优化**，按编辑行业的四层分工（结构 → 衔接 → 句子 → 词句）自顶向下改稿，只改表达、不改事实；改完交独立子代理做成文评审，改过的句子再回 ④A 复核兜底。规则正文在 [references/05-prose-refinement.md](../../references/05-prose-refinement.md)，本文只存设计依据（台账：[RSI-011](../.agents/issue.md)）。
 
 **目录**：一、病灶取证 · 二、根因 · 三、理论依据 · 四、方案比选 · 五、与相邻机制的关系 · 六、撤销条件 · 参考文献
 
 <picture>
   <source media="(prefers-color-scheme: dark)" srcset="../assets/architecture/prose-refinement--passes-dark.png">
-  <img src="../assets/architecture/prose-refinement--passes-light.png" alt="Stage ⑤ 成文优化：已过 ④ 的四稿依次经过 L1 结构、L2 衔接、L3 句子、L4 词句四层 pass，改动经 diff 进入改动表，只对改动句重跑 ④A 复核；判 RISKY 即回退原句，RISKY=0 时定稿，build 与 check 零 FAIL 后文稿冻结。">
+  <img src="../assets/architecture/prose-refinement--passes-light.png" alt="Stage ⑤ 成文优化：已过 ④ 的四稿依次经过 L1 结构、L2 衔接、L3 句子、L4 词句四层 pass，改动经 diff 进入改动表，交独立子代理按具名规则成文评审、REWRITE 回改至清零，再只对改动句重跑 ④A 复核、判 RISKY 即回退原句；评审与复核清零后定稿，build 与 check 零 FAIL 后文稿冻结。">
 </picture>
 
 > 图源：[`prose-refinement--passes.mmd`](../assets/mermaid/prose-refinement--passes.mmd) · 交互版：[`prose-refinement--passes.html`](../assets/architecture/prose-refinement--passes.html)

diff --git a/README.md b/README.md
@@ -35,7 +35,7 @@
 | ② 策划案生成 | planning.md 六节齐 |
 | ③ 逐字稿写作 | narration.md（全片单一事实源），`build` 派生 narration.json |
 | ④ 双重校验 | 真实性 + 易懂性双门（`check`）：RISKY=0 且 REWRITE=0 |
-| ⑤ 成文优化 | 研究笔记 / 策划案 / 逐字稿 / 分镜按「结构 → 衔接 → 句子 → 词句」四层改成人写模样，只改表达不改事实：成文评审 REWRITE=0 且改动句复核 RISKY=0 |
+| ⑤ 成文优化 | 研究笔记 / 策划案 / 逐字稿 / 分镜按「结构 → 衔接 → 句子 → 词句」四层改成人写模样，只改表达不改事实：成文评审 REWRITE=0 且改动句复核 RISKY=0、REWRITE=0 |
 | ⑥ 分镜表生成 | beat 覆盖率无缺句（`check`，含分镜↔代码互比） |
 | ⑦ TTS 配音 | 逐句 mp3 + 时长 manifest（`tts`，幂等续跑），`captions` 导出 srt/vtt |
 | ⑧ Remotion 场景实现 | React 场景组件、全代码动画：tsc 零错误 + 七条渲染红线 + 运动层铁律 |
